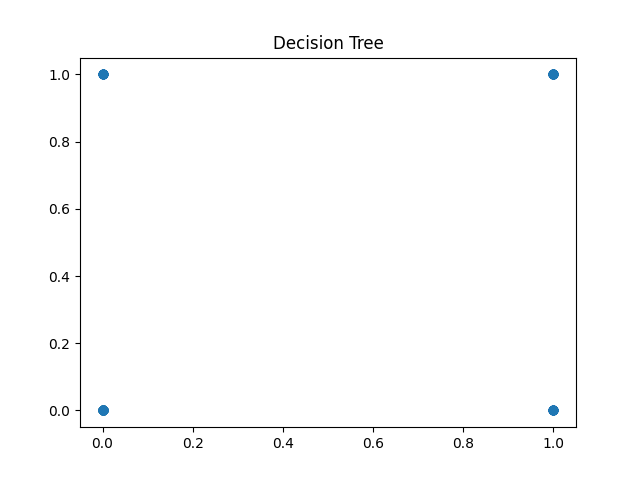
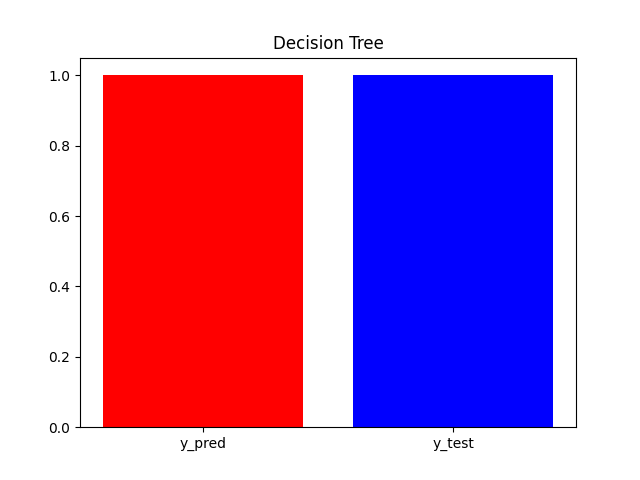
fix : plot and fixed some errors

diff --git a/src/decisiontree.py b/src/decisiontree.py
@@ -4,12 +4,13 @@ this module is for decision tree
 import os
 import matplotlib.pyplot as plt
 import pandas as pd
+import numpy as np
 from sklearn import tree
 from sklearn.model_selection import GridSearchCV, train_test_split
 from sklearn.tree import DecisionTreeClassifier
 
 
-class DecisionTree:
+class DecisionTree: # pylint: disable= R0902
     """
     decision tree class
     """
@@ -17,7 +18,8 @@ class DecisionTree:
     def __init__(self, param_grid, data_x, data_y):
         self.data_x = data_x
         self.data_y = data_y
-        self.grid = GridSearchCV(DecisionTreeClassifier(), param_grid, refit=True)
+        self.grid = None
+        self.param_grid = param_grid
         self.train_x, self.test_x, self.y_train, self.y_test = train_test_split(data_x, data_y, test_size=0.2)
 
     def __str__(self):
@@ -27,15 +29,9 @@ class DecisionTree:
         """
         this function will clean,read,split into train and test
         """
-        # scalar = StandardScaler()
-        #data_x = preprocessing.scale(data_x)
-        # data_y = preprocessing.scale(data_y)
-        # scalar.fit_transform(data_x)
-        # data_y = scalar.fit_transform(data_y)
+        self.grid = GridSearchCV(DecisionTreeClassifier(), self.param_grid, refit=True)
         self.grid.fit(self.train_x, self.y_train)
         self.grid.score(self.test_x, self.y_test)
-        # y_pred = self.grid.predict(self.test_x)
-        # return metrics.accuracy_score(y_test, y_pred)
         return self.grid.cv_results_
 
     def save(self):
@@ -65,9 +61,13 @@ class DecisionTree:
         """
         this function plot the results and save it and return the score
         """
-        self.run_grid_search()
+        if self.grid is None:
+            self.run_grid_search()
         y_pred = self.grid.predict(self.test_x)
-        plt.scatter(self.y_test, y_pred)
+        plt.bar(y_pred, self.y_test, color=['blue', 'red'])
+        bars = ('y_pred', 'y_test')
+        x_pos = np.arange(len(bars))
+        plt.xticks(x_pos, bars)
         plt.title('Decision Tree')
         # save plot
         filename = "results.csv"
@@ -78,7 +78,7 @@ class DecisionTree:
         complete_name = os.path.join(path, filename)
         plt.savefig(complete_name + 'diabetes.png')
         plt.show()
-        tree.plot_tree(self.grid.best_estimator_.fit(self.train_x, self.y_train))
+        tree.plot_tree(self.grid.best_estimator_)
         plt.savefig(complete_name + 'plot.png')
         plt.show()
         return self.grid.score(self.train_x, self.y_train)
